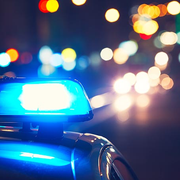
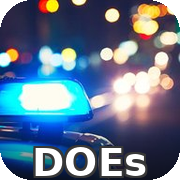
Add files via upload

diff --git a/index.html b/index.html
@@ -205,6 +205,22 @@ a{text-decoration:none;color:inherit}
 .fab:active{transform:scale(0.98)}
 .fab svg{width:20px;height:20px;fill:white}
 
+.doe-search-wrap{
+  position:relative;margin-bottom:10px;
+}
+.doe-search-wrap svg{
+  position:absolute;left:10px;top:50%;transform:translateY(-50%);
+  width:16px;height:16px;fill:var(--text-dim);pointer-events:none;
+}
+.doe-search-input{
+  width:100%;background:var(--bg-card);border:1px solid var(--border);
+  border-radius:var(--radius-sm);color:var(--text-primary);
+  font-family:var(--font-mono);font-size:.78rem;
+  padding:9px 10px 9px 34px;
+  transition:border-color .2s;
+}
+.doe-search-input:focus{outline:none;border-color:var(--app-color);}
+.doe-search-input::placeholder{color:var(--text-dim);}
 .doe-list{display:flex;flex-direction:column;gap:10px}
 .doe-empty{
   text-align:center;padding:48px 20px;
@@ -749,7 +765,7 @@ textarea.form-input{resize:vertical;min-height:70px}
   transition:all .2s;cursor:pointer;
 }
 .detail-tab.active{color:var(--app-color);border-bottom-color:var(--app-color)}
-.detail-tab-content{display:none;flex:1;overflow:hidden;flex-direction:column}
+.detail-tab-content{display:none;flex:1;overflow:hidden;flex-direction:column;position:relative}
 .detail-tab-content.active{display:flex}
 
 /* ===== MAPA EDITOR ===== */
@@ -865,7 +881,7 @@ textarea.form-input{resize:vertical;min-height:70px}
 
 /* Finalized view */
 .map-finalized{
-  position:absolute;inset:0;z-index:15;
+  position:absolute;inset:0;z-index:25;
   background:var(--bg-primary);
   display:none;flex-direction:column;
 }
@@ -970,6 +986,10 @@ textarea.form-input{resize:vertical;min-height:70px}
       Añadir DOE
     </button>
     <div class="section-title">Dispositivos registrados</div>
+    <div class="doe-search-wrap">
+      <svg viewBox="0 0 24 24"><path d="M15.5 14h-.79l-.28-.27C15.41 12.59 16 11.11 16 9.5 16 5.91 13.09 3 9.5 3S3 5.91 3 9.5 5.91 16 9.5 16c1.61 0 3.09-.59 4.23-1.57l.27.28v.79l5 4.99L20.49 19l-4.99-5zm-6 0C7.01 14 5 11.99 5 9.5S7.01 5 9.5 5 14 7.01 14 9.5 11.99 14 9.5 14z"/></svg>
+      <input type="text" class="doe-search-input" id="doe-search" placeholder="Buscar por calle, lugar..." oninput="renderDOEList()">
+    </div>
     <div class="doe-list" id="doe-list">
       <!-- populated by JS -->
     </div>
@@ -1460,27 +1480,28 @@ textarea.form-input{resize:vertical;min-height:70px}
         </label>
       </div>
       <canvas id="editor-canvas"></canvas>
-      <!-- Finalized overlay -->
-      <div class="map-finalized" id="map-finalized">
-        <img id="map-finalized-img" class="map-finalized-img" alt="Mapa DOE finalizado">
-        <div class="map-finalized-actions">
-          <button class="btn btn-secondary" onclick="unfinalizeMap()" style="flex:1">
-            <svg viewBox="0 0 24 24"><path d="M3 17.25V21h3.75L17.81 9.94l-3.75-3.75L3 17.25zM20.71 7.04c.39-.39.39-1.02 0-1.41l-2.34-2.34c-.39-.39-1.02-.39-1.41 0l-1.83 1.83 3.75 3.75 1.83-1.83z"/></svg>
-            Re-editar
-          </button>
-          <button class="btn" onclick="deleteMap()" style="flex:1;background:var(--red);color:white;border:none">
-            <svg viewBox="0 0 24 24" style="width:16px;height:16px;fill:white"><path d="M6 19c0 1.1.9 2 2 2h8c1.1 0 2-.9 2-2V7H6v12zM19 4h-3.5l-1-1h-5l-1 1H5v2h14V4z"/></svg>
-            Borrar mapa
-          </button>
-          <button class="btn btn-primary" onclick="exportDOEPDF()" style="flex:1">
-            <svg viewBox="0 0 24 24"><path d="M14 2H6c-1.1 0-2 .9-2 2v16c0 1.1.9 2 2 2h12c1.1 0 2-.9 2-2V8l-6-6zm-1 7V3.5L18.5 9H13z"/></svg>
-            PDF
-          </button>
-          <button class="btn" style="flex:1;background:var(--green);color:white;border:none" onclick="shareDOEPDF()">
-            <svg viewBox="0 0 24 24" style="width:16px;height:16px;fill:white"><path d="M18 16.08c-.76 0-1.44.3-1.96.77L8.91 12.7c.05-.23.09-.46.09-.7s-.04-.47-.09-.7l7.05-4.11c.54.5 1.25.81 2.04.81 1.66 0 3-1.34 3-3s-1.34-3-3-3-3 1.34-3 3c0 .24.04.47.09.7L8.04 9.81C7.5 9.31 6.79 9 6 9c-1.66 0-3 1.34-3 3s1.34 3 3 3c.79 0 1.5-.31 2.04-.81l7.12 4.16c-.05.21-.08.43-.08.65 0 1.61 1.31 2.92 2.92 2.92s2.92-1.31 2.92-2.92-1.31-2.92-2.92-2.92z"/></svg>
-            Enviar
-          </button>
-        </div>
+    </div>
+
+    <!-- Finalized overlay — fuera de editor-wrap para cubrir toolbar (z-index:25) -->
+    <div class="map-finalized" id="map-finalized">
+      <img id="map-finalized-img" class="map-finalized-img" alt="Mapa DOE finalizado">
+      <div class="map-finalized-actions">
+        <button class="btn btn-secondary" onclick="unfinalizeMap()" style="flex:1">
+          <svg viewBox="0 0 24 24"><path d="M3 17.25V21h3.75L17.81 9.94l-3.75-3.75L3 17.25zM20.71 7.04c.39-.39.39-1.02 0-1.41l-2.34-2.34c-.39-.39-1.02-.39-1.41 0l-1.83 1.83 3.75 3.75 1.83-1.83z"/></svg>
+          Re-editar
+        </button>
+        <button class="btn" onclick="deleteMap()" style="flex:1;background:var(--red);color:white;border:none">
+          <svg viewBox="0 0 24 24" style="width:16px;height:16px;fill:white"><path d="M6 19c0 1.1.9 2 2 2h8c1.1 0 2-.9 2-2V7H6v12zM19 4h-3.5l-1-1h-5l-1 1H5v2h14V4z"/></svg>
+          Borrar mapa
+        </button>
+        <button class="btn btn-primary" onclick="exportDOEPDF()" style="flex:1">
+          <svg viewBox="0 0 24 24"><path d="M14 2H6c-1.1 0-2 .9-2 2v16c0 1.1.9 2 2 2h12c1.1 0 2-.9 2-2V8l-6-6zm-1 7V3.5L18.5 9H13z"/></svg>
+          PDF
+        </button>
+        <button class="btn" style="flex:1;background:var(--green);color:white;border:none" onclick="shareDOEPDF()">
+          <svg viewBox="0 0 24 24" style="width:16px;height:16px;fill:white"><path d="M18 16.08c-.76 0-1.44.3-1.96.77L8.91 12.7c.05-.23.09-.46.09-.7s-.04-.47-.09-.7l7.05-4.11c.54.5 1.25.81 2.04.81 1.66 0 3-1.34 3-3s-1.34-3-3-3-3 1.34-3 3c0 .24.04.47.09.7L8.04 9.81C7.5 9.31 6.79 9 6 9c-1.66 0-3 1.34-3 3s1.34 3 3 3c.79 0 1.5-.31 2.04-.81l7.12 4.16c-.05.21-.08.43-.08.65 0 1.61 1.31 2.92 2.92 2.92s2.92-1.31 2.92-2.92-1.31-2.92-2.92-2.92z"/></svg>
+          Enviar
+        </button>
       </div>
     </div>
 
@@ -1541,7 +1562,7 @@ textarea.form-input{resize:vertical;min-height:70px}
           <button class="tool-btn" onclick="editorZoomReset()" style="font-size:.7rem">1:1</button>
         </div>
         <div style="margin-left:auto;font-size:.6rem;color:var(--text-dim);font-family:var(--font-mono)">
-          Toca→mover<br>2×→borrar
+          Toca→mover<br>X→borrar
         </div>
       </div>
     </div>
@@ -1688,15 +1709,26 @@ function showToast(msg, icon){
 function renderDOEList(){
   var list = document.getElementById('doe-list');
   var data = loadDB();
+  // Filtrar por buscador si hay término
+  var searchEl = document.getElementById('doe-search');
+  var q = searchEl ? searchEl.value.toLowerCase().trim() : '';
+  if(q){
+    data = data.filter(function(d,i){
+      d._origIdx = i; // conservar índice original
+      return (d.lugar||'').toLowerCase().indexOf(q)>=0;
+    });
+  } else {
+    data = data.map(function(d,i){ d._origIdx = i; return d; });
+  }
   if(!data.length){
     list.innerHTML = '<div class="doe-empty"><div class="doe-empty-icon"><svg viewBox="0 0 24 24"><path d="M20 6h-2.18c.07-.44.18-.88.18-1.3 0-2.59-2.09-4.7-4.68-4.7C11.84 0 10.38.68 9.35 1.9L8 3.4 6.65 1.9C5.62.68 4.16 0 2.68 0 1.09 0 0 1.2 0 2.7c0 .42.09.86.18 1.3H0v14c0 1.1.9 2 2 2h20c1.1 0 2-.9 2-2V8c0-1.1-.9-2-2-2zm0 14H2V8h18v12z"/></svg></div><h3>Sin DOEs registrados</h3><p>Pulsa "Añadir DOE" para crear<br>tu primer dispositivo operativo</p></div>';
     return;
   }
-  list.innerHTML = data.map(function(doe,i){
+  list.innerHTML = data.map(function(doe){
     var vTotal = (doe.vehiculos||[]).reduce(function(a,b){return a+(b.qty||0)},0);
     var status = doe.finalizado ? 'finalizado' : 'borrador';
     var statusLabel = doe.finalizado ? 'Finalizado' : 'Borrador';
-    return '<div class="doe-card" onclick="openDOE('+i+')">\
+    return '<div class="doe-card" onclick="openDOE('+doe._origIdx+')">\
       <div class="doe-card-stripe"></div>\
       <div class="doe-card-inner">\
         <div class="doe-card-badge">'+formatDateBadge(doe.fecha)+'</div>\
@@ -1710,15 +1742,15 @@ function renderDOEList(){
         <div class="doe-card-status '+status+'">'+statusLabel+'</div>\
       </div>\
       <div class="doe-card-actions">\
-        <button class="doe-action-btn edit" onclick="event.stopPropagation();editDOE('+i+')">\
+        <button class="doe-action-btn edit" onclick="event.stopPropagation();editDOE('+doe._origIdx+')">\
           <svg viewBox="0 0 24 24"><path d="M3 17.25V21h3.75L17.81 9.94l-3.75-3.75L3 17.25zM20.71 7.04c.39-.39.39-1.02 0-1.41l-2.34-2.34c-.39-.39-1.02-.39-1.41 0l-1.83 1.83 3.75 3.75 1.83-1.83z"/></svg>\
           Editar\
         </button>\
-        <button class="doe-action-btn view" onclick="event.stopPropagation();openDOE('+i+')">\
+        <button class="doe-action-btn view" onclick="event.stopPropagation();openDOE('+doe._origIdx+')">\
           <svg viewBox="0 0 24 24"><path d="M12 4.5C7 4.5 2.73 7.61 1 12c1.73 4.39 6 7.5 11 7.5s9.27-3.11 11-7.5c-1.73-4.39-6-7.5-11-7.5zM12 17c-2.76 0-5-2.24-5-5s2.24-5 5-5 5 2.24 5 5-2.24 5-5 5zm0-8c-1.66 0-3 1.34-3 3s1.34 3 3 3 3-1.34 3-3-1.34-3-3-3z"/></svg>\
           Ver\
         </button>\
-        <button class="doe-action-btn del" onclick="event.stopPropagation();confirmDeleteDOE('+i+')">\
+        <button class="doe-action-btn del" onclick="event.stopPropagation();confirmDeleteDOE('+doe._origIdx+')">\
           <svg viewBox="0 0 24 24"><path d="M6 19c0 1.1.9 2 2 2h8c1.1 0 2-.9 2-2V7H6v12zM19 4h-3.5l-1-1h-5l-1 1H5v2h14V4z"/></svg>\
           Borrar\
         </button>\
@@ -1834,6 +1866,12 @@ function populateStep1(){
   document.getElementById('doe-lugar').value = currentDOE.lugar||'';
   document.getElementById('doe-agentes').value = currentDOE.agentes||0;
   document.getElementById('doe-mandos').value = currentDOE.mandos||0;
+  // Restaurar rangos de mandos al editar
+  var rangos = currentDOE.mandos_rangos||{};
+  document.getElementById('rank-oficial').value = rangos.oficial||0;
+  document.getElementById('rank-subinspector').value = rangos.subinspector||0;
+  document.getElementById('rank-inspector').value = rangos.inspector||0;
+  document.getElementById('rank-comisario').value = rangos.comisario||0;
   renderIndicativos();
   updateMandosPanel();
   if(typeof refreshWeaponUI==='function') setTimeout(refreshWeaponUI,0);
@@ -2546,6 +2584,44 @@ function initFabricCanvas(d){
   fabricCanvas.setWidth(W);
   fabricCanvas.setHeight(Math.max(H, 300));
 
+  // Control personalizado: botón X rojo para borrar objetos
+  fabric.Object.prototype.controls.deleteControl = new fabric.Control({
+    x: 0.5, y: -0.5,
+    offsetY: -14, offsetX: 14,
+    cursorStyle: 'pointer',
+    mouseUpHandler: function(eventData, transform){
+      var target = transform.target;
+      var canvas = target.canvas;
+      if(!canvas || target.id === '_bg_map') return false;
+      canvas.remove(target);
+      canvas.requestRenderAll();
+      saveToHistory();
+      autoSaveCanvas();
+      return true;
+    },
+    render: function(ctx, left, top, styleOverride, fabricObject){
+      var size = 20;
+      ctx.save();
+      ctx.translate(left, top);
+      ctx.rotate(fabric.util.degreesToRadians(fabricObject.angle));
+      ctx.beginPath();
+      ctx.arc(0, 0, size/2, 0, 2*Math.PI);
+      ctx.fillStyle = '#ff4136';
+      ctx.fill();
+      ctx.strokeStyle = 'rgba(255,255,255,0.85)';
+      ctx.lineWidth = 1.5;
+      ctx.stroke();
+      ctx.beginPath();
+      ctx.strokeStyle = 'white';
+      ctx.lineWidth = 2;
+      var d = 4.5;
+      ctx.moveTo(-d,-d); ctx.lineTo(d,d);
+      ctx.moveTo(d,-d);  ctx.lineTo(-d,d);
+      ctx.stroke();
+      ctx.restore();
+    }
+  });
+
   // No map placeholder
   var noMap = document.getElementById('canvas-no-map');
 
@@ -2872,8 +2948,14 @@ function finalizeMap(){
   if(!fabricCanvas) return;
   // Deselect all
   fabricCanvas.discardActiveObject();
+  // Reset zoom/pan para capturar el canvas completo sin recortes
+  var savedVpt = fabricCanvas.viewportTransform.slice();
+  fabricCanvas.setViewportTransform([1,0,0,1,0,0]);
   fabricCanvas.renderAll();
   var dataURL = fabricCanvas.toDataURL({format:'png',quality:1,multiplier:2});
+  // Restaurar viewport (no necesario ya que se muestra overlay, pero por seguridad)
+  fabricCanvas.setViewportTransform(savedVpt);
+  fabricCanvas.renderAll();
   var data = loadDB();
   if(data[detailIndex]){
     data[detailIndex].mapFinal = dataURL;

diff --git a/sw.js b/sw.js
@@ -1,37 +1,82 @@
-const CACHE = 'does-v14';
+const CACHE = 'does-v15';
 const STATIC_ASSETS = ['./', './index.html', './manifest.json'];
 
 /* ── Genera un icono PNG sintético como ArrayBuffer ── */
 function makePNGIcon(size) {
   const canvas = new OffscreenCanvas(size, size);
   const ctx = canvas.getContext('2d');
-  const r = size * 0.14;
-  // Fondo azul
+  const r = size * 0.18;
+  const cx = size / 2, cy = size / 2;
+
+  // Fondo oscuro táctico
   const bg = ctx.createLinearGradient(0, 0, size, size);
-  bg.addColorStop(0, '#1a5fd4');
-  bg.addColorStop(1, '#026be0');
+  bg.addColorStop(0, '#0a0e1a');
+  bg.addColorStop(1, '#0b1b32');
   ctx.fillStyle = bg;
   ctx.beginPath();
   ctx.roundRect(0, 0, size, size, r);
   ctx.fill();
-  // Escudo blanco simplificado
-  const cx = size / 2, cy = size * 0.46, sw = size * 0.48, sh = size * 0.54;
-  ctx.fillStyle = 'rgba(255,255,255,0.92)';
+
+  // Sirena policial estilizada (luz azul)
+  const sw2 = size;
+  const sh2 = size;
+  // Gradiente de luz azul en el centro
+  const glow = ctx.createRadialGradient(cx, cy*0.7, 0, cx, cy*0.7, size*0.45);
+  glow.addColorStop(0, 'rgba(0,150,255,0.45)');
+  glow.addColorStop(0.5, 'rgba(0,100,220,0.2)');
+  glow.addColorStop(1, 'rgba(0,0,0,0)');
+  ctx.fillStyle = glow;
+  ctx.fillRect(0, 0, size, size);
+
+  // Cuerpo del coche policial simplificado
+  const cw = size * 0.62, ch = size * 0.28;
+  const cx2 = cx - cw/2, cy2 = cy * 0.78 - ch/2;
+  // Carrocería
   ctx.beginPath();
-  ctx.moveTo(cx, cy - sh * 0.5);
-  ctx.lineTo(cx + sw * 0.5, cy - sh * 0.28);
-  ctx.lineTo(cx + sw * 0.5, cy + sh * 0.1);
-  ctx.quadraticCurveTo(cx + sw * 0.5, cy + sh * 0.5, cx, cy + sh * 0.5);
-  ctx.quadraticCurveTo(cx - sw * 0.5, cy + sh * 0.5, cx - sw * 0.5, cy + sh * 0.1);
-  ctx.lineTo(cx - sw * 0.5, cy - sh * 0.28);
-  ctx.closePath();
+  ctx.roundRect(cx2, cy2, cw, ch, size*0.04);
+  ctx.fillStyle = '#1a3060';
   ctx.fill();
-  // Letra D azul dentro del escudo
+  ctx.strokeStyle = '#2a50a0';
+  ctx.lineWidth = size * 0.015;
+  ctx.stroke();
+  // Sirena en el techo
+  const sw3 = size * 0.28, sh3 = size * 0.08;
+  ctx.beginPath();
+  ctx.roundRect(cx - sw3/2, cy2 - sh3 - size*0.02, sw3, sh3, size*0.02);
   ctx.fillStyle = '#026be0';
-  ctx.font = `bold ${size * 0.28}px Arial`;
+  ctx.fill();
+  // Destello azul izquierda
+  ctx.beginPath();
+  ctx.roundRect(cx - sw3/2, cy2 - sh3 - size*0.02, sw3*0.45, sh3, [size*0.02,0,0,size*0.02]);
+  ctx.fillStyle = 'rgba(50,150,255,0.9)';
+  ctx.fill();
+  // Destello rojo derecha
+  ctx.beginPath();
+  ctx.roundRect(cx + sw3*0.05, cy2 - sh3 - size*0.02, sw3*0.45, sh3, [0,size*0.02,size*0.02,0]);
+  ctx.fillStyle = 'rgba(220,50,50,0.85)';
+  ctx.fill();
+
+  // Texto DOEs en la parte inferior
+  const barH = size * 0.26;
+  const barY = size - barH;
+  const barGrad = ctx.createLinearGradient(0, barY, 0, size);
+  barGrad.addColorStop(0, 'rgba(10,14,26,0)');
+  barGrad.addColorStop(0.3, 'rgba(10,14,26,0.88)');
+  barGrad.addColorStop(1, 'rgba(10,14,26,0.97)');
+  ctx.fillStyle = barGrad;
+  ctx.fillRect(0, barY, size, barH);
+
+  const fs = size * 0.22;
+  ctx.font = `bold ${fs}px Arial`;
   ctx.textAlign = 'center';
   ctx.textBaseline = 'middle';
-  ctx.fillText('D', cx, cy + size * 0.01);
+  // Sombra
+  ctx.fillStyle = 'rgba(0,0,0,0.7)';
+  ctx.fillText('DOEs', cx+1.5, size - barH*0.42 + 1.5);
+  // Texto blanco
+  ctx.fillStyle = '#ffffff';
+  ctx.fillText('DOEs', cx, size - barH*0.42);
+
   return canvas.convertToBlob({ type: 'image/png' });
 }
 